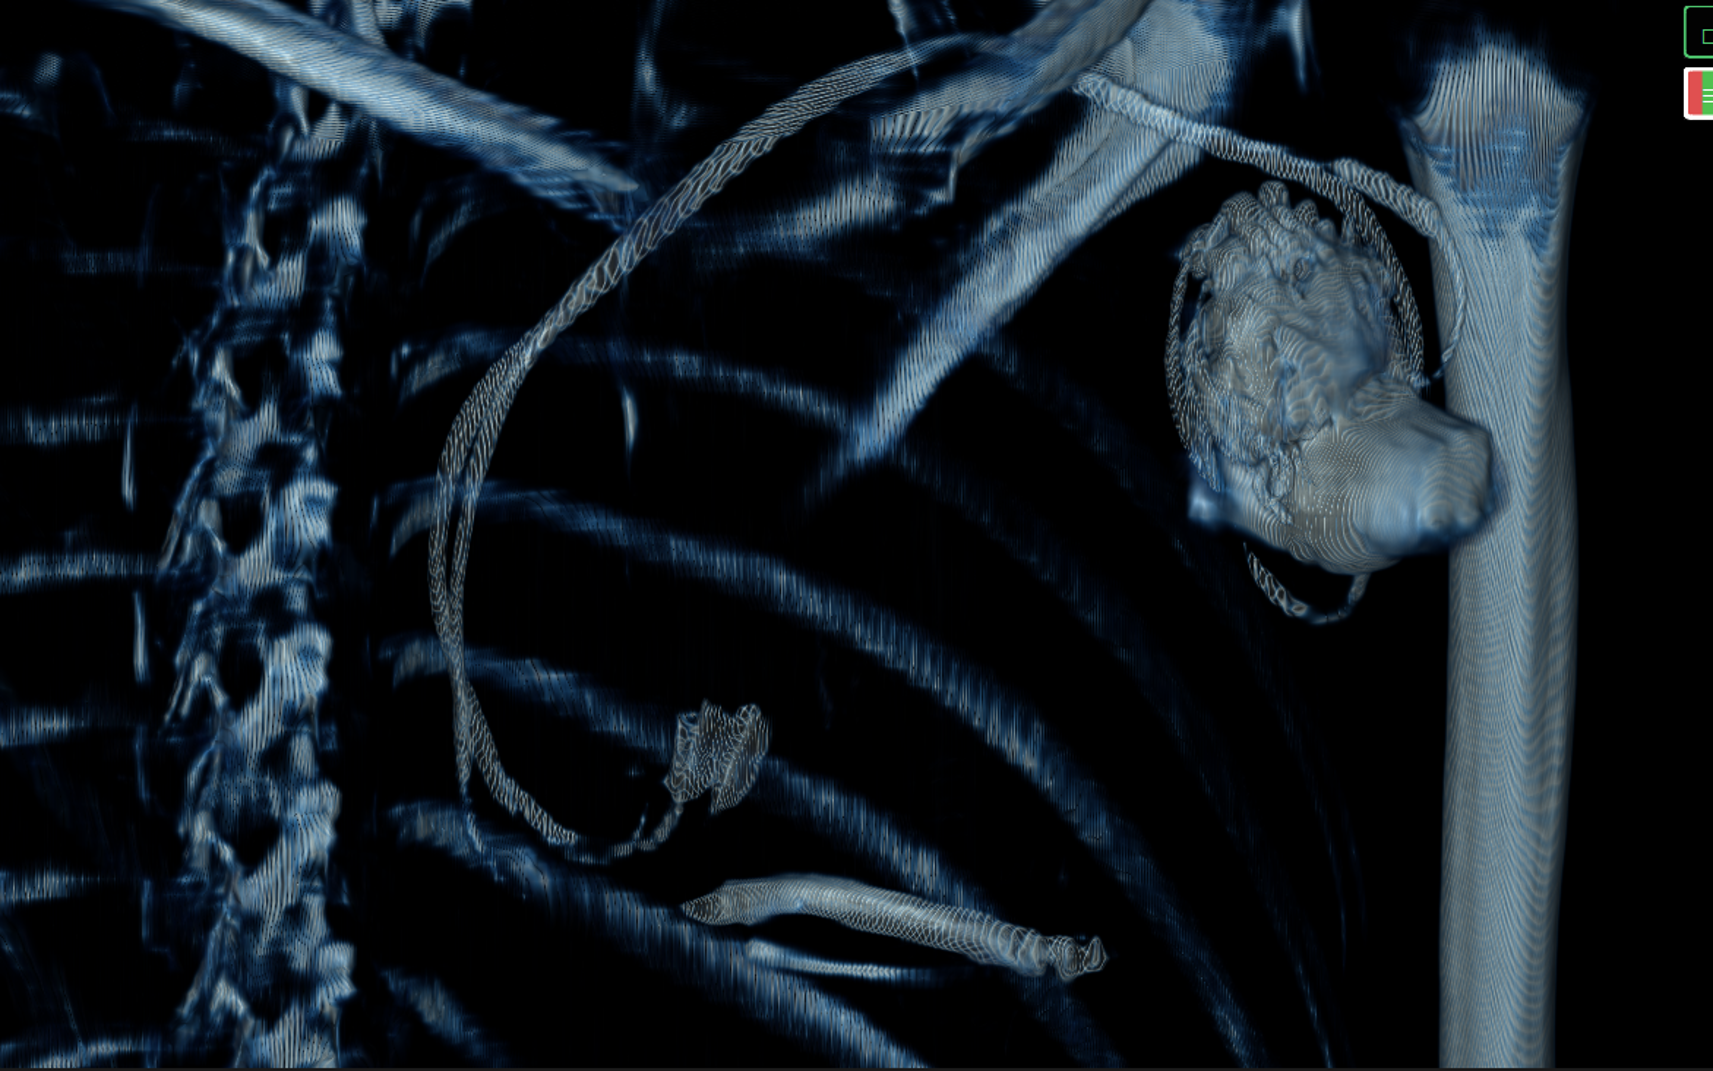
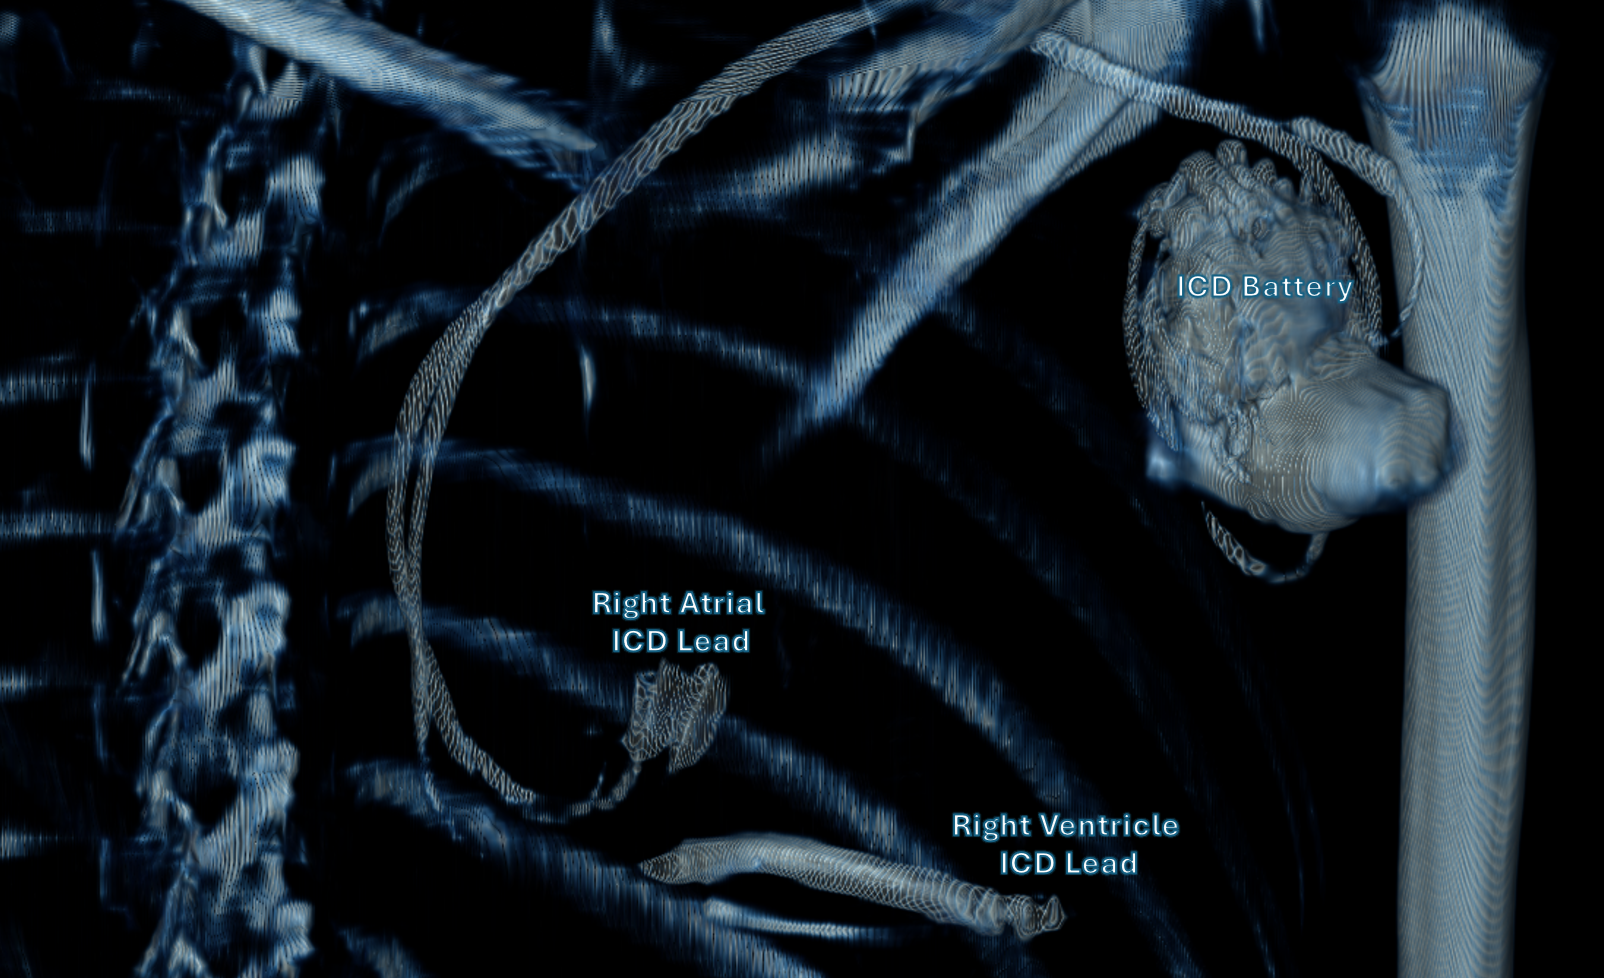
refactor: tighten section spacing and trim hero/diagnosis copy
- Remove "MyBodyPrism · Coming soon" hero tagline
- Diagnosis lead: "what doctors showed me" -> "what I saw on the
  medical scan CD they gave me"
- Trim Picture1 figcaption (drop "no way to understand" sentence)
- Comparison section lead: replace prose with "MyBodyPrism
  Comparison Mode"
- Reduce vertical padding across sections (8rem -> 5rem desktop,
  5rem -> 3.5rem mobile) plus figure top margins
- Update Picture5.png to the labeled version (ICD Battery / Right
  Atrial Lead / Right Ventricle Lead)

diff --git a/index.html b/index.html
@@ -59,7 +59,7 @@
     /* ---------- Section base ---------- */
     section {
       position: relative;
-      padding: 8rem 2rem;
+      padding: 5rem 2rem;
       display: flex;
       flex-direction: column;
       align-items: center;
@@ -152,7 +152,7 @@
 
     /* ---------- Figures ---------- */
     figure {
-      margin: 3rem auto 0;
+      margin: 1.75rem auto 0;
       max-width: 880px;
     }
     figure img {
@@ -178,7 +178,7 @@
     }
 
     /* ---------- Pivot quote ---------- */
-    .section-pivot { padding: 5rem 2rem; }
+    .section-pivot { padding: 3.5rem 2rem; }
     .quote {
       font-family: 'Playfair Display', serif;
       font-style: italic;
@@ -231,7 +231,7 @@
     .step p { font-size: 0.95rem; color: var(--muted); }
 
     /* ---------- Trust strip ---------- */
-    .section-trust { padding: 4rem 2rem; }
+    .section-trust { padding: 3rem 2rem; }
     .trust-row {
       display: flex;
       justify-content: center;
@@ -261,8 +261,8 @@
 
     /* ---------- Waitlist ---------- */
     .section-waitlist {
-      padding-top: 6rem;
-      padding-bottom: 8rem;
+      padding-top: 4rem;
+      padding-bottom: 5.5rem;
     }
     .section-waitlist h2 { margin-bottom: 2.5rem; }
     form {
@@ -344,9 +344,9 @@
 
     /* ---------- Responsive ---------- */
     @media (max-width: 768px) {
-      section { padding: 5rem 1.25rem; }
+      section { padding: 3.5rem 1.25rem; }
       .hero { padding: 5rem 1.25rem 3rem; }
-      figure { margin-top: 2.5rem; }
+      figure { margin-top: 1.5rem; }
       .steps { grid-template-columns: 1fr; gap: 1.5rem; margin-top: 2.5rem; }
       .step { padding: 1.5rem; }
       .trust-row { gap: 1.75rem; flex-direction: column; }
@@ -366,7 +366,6 @@
     <canvas id="particles" aria-hidden="true"></canvas>
     <div class="hero-content">
       <h1>What if you could truly see inside your own body?</h1>
-      <p class="hero-tagline">MyBodyPrism<span class="dot">·</span>Coming soon</p>
     </div>
     <div class="scroll-cue" id="scroll-cue">Scroll</div>
   </section>
@@ -376,10 +375,10 @@
     <div class="container">
       <p class="eyebrow reveal">2013</p>
       <h2 class="reveal reveal-delay-1">I was diagnosed with cardiac sarcoidosis.</h2>
-      <p class="lead reveal reveal-delay-2">This is what my doctors showed me.</p>
+      <p class="lead reveal reveal-delay-2">This is what I saw on the medical scan CD they gave me.</p>
       <figure class="reveal reveal-delay-3 figure-large">
         <img src="Picture1.png" alt="Traditional DICOM viewer with four panels showing flat 2D cross-sections and a 'No 3D' panel" />
-        <figcaption>A traditional viewer. Grayscale cross-sections. No way to understand the shape of my own disease.</figcaption>
+        <figcaption>A traditional viewer. Grayscale cross-sections.</figcaption>
       </figure>
     </div>
   </section>
@@ -408,7 +407,7 @@
     <div class="container">
       <p class="eyebrow reveal">2013 → 2025</p>
       <h2 class="reveal reveal-delay-1">Twelve years, one view.</h2>
-      <p class="lead reveal reveal-delay-2">Every scan I've ever had. Side by side, in motion.</p>
+      <p class="lead reveal reveal-delay-2">MyBodyPrism Comparison Mode.</p>
       <figure class="reveal reveal-delay-3">
         <img src="Picture3.png" alt="Side-by-side comparison of four cardiac PET-CT scans from 2013, 2018, 2023, and 2025" />
       </figure>
